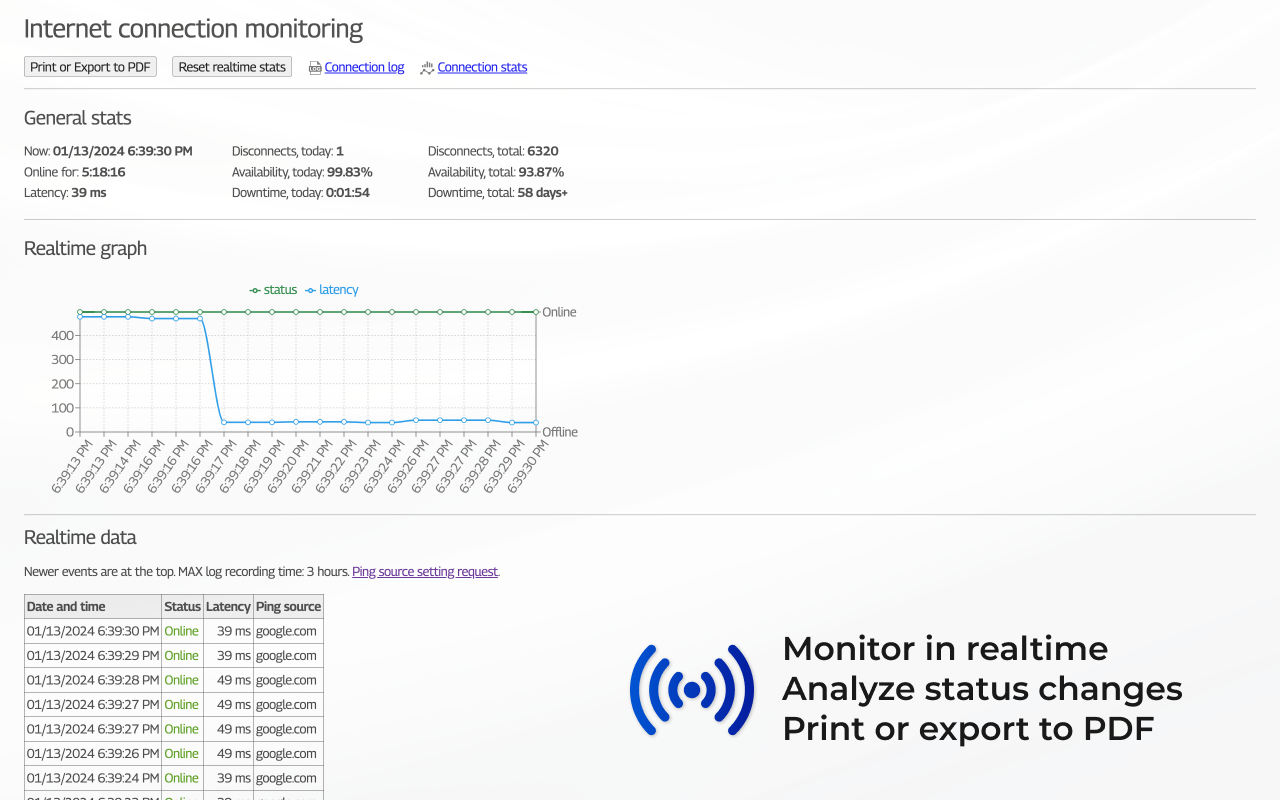
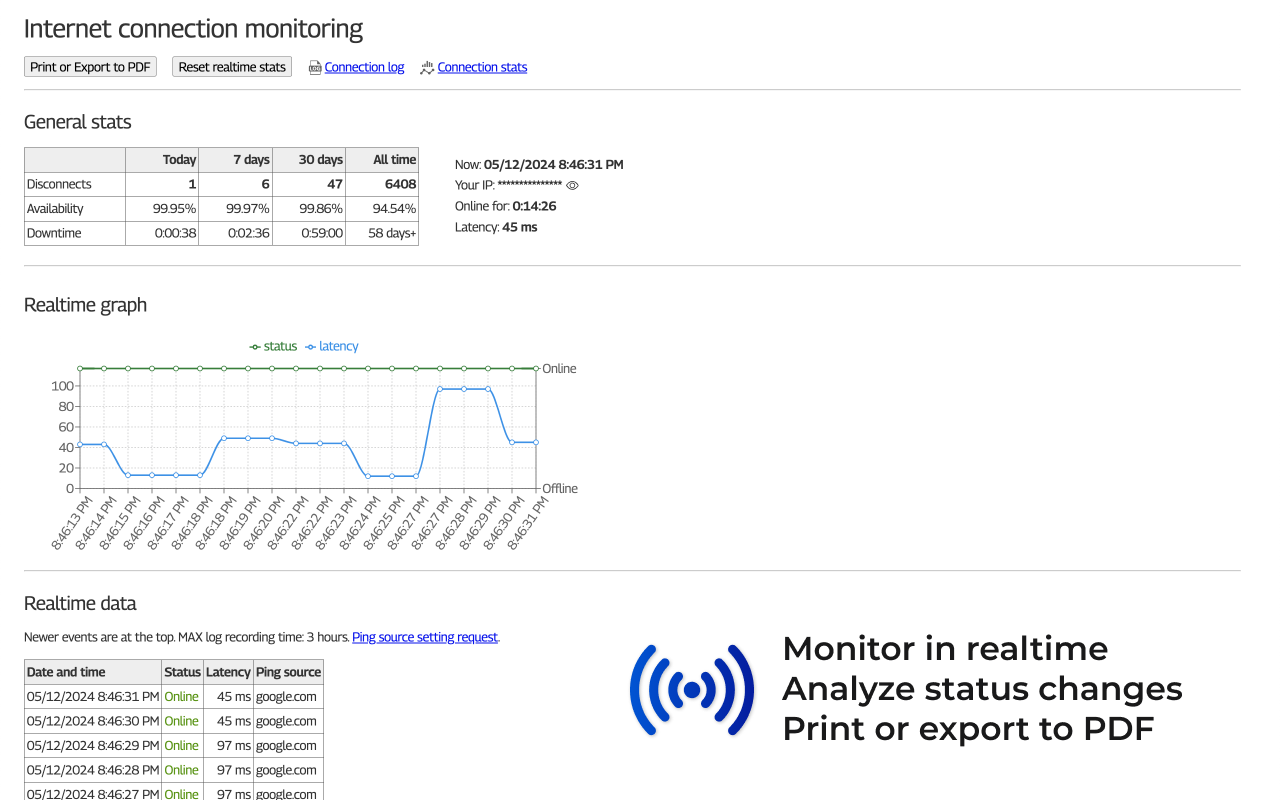
ICM 5.2 release

diff --git a/pages/index.tsx b/pages/index.tsx
@@ -1,11 +1,7 @@
-// import Head from 'next/head'
-// import Image from 'next/image'
-// import styles from '../styles/Home.module.css'
 import Link from 'next/link';
 import { DownloadButton, MadeWithLove, MainLayout } from '@/components';
-import Donate from '@/components/Donate';
 
-export default function Home() {
+export default function HomePage() {
   return (
     <MainLayout>
       <div className="container-fluid">
@@ -37,26 +33,29 @@ export default function Home() {
             <h5 className="text-center">🎯 ICM IS THE BEST FOR</h5>
             <ul>
               <li>Recording and analyzing outages of Internet connection</li>
+              <li>Displaying your public IP</li>
               <li>Verifying ISP/provider issues</li>
-              <li>Verifying some hardware issues</li>
+              <li>Verifying some router/modem/hardware issues</li>
             </ul>
             <h5 className="text-center">💻 FEATURES</h5>
             <ul>
               <li>Precise connectivity test with configurable testing interval</li>
               <li>Latency measurement</li>
+              <li>Show public IP address</li>
               <li>Detect when Internet doesn't work even with operating LAN connection (Wi-Fi or Ethernet)</li>
               <li>Disconnects, availability and downtime stats</li>
               <li>Play sound when connection goes online or offline</li>
               <li>Events log with CSV and PDF export</li>
               <li>Realtime connectivity and latency monitoring</li>
               <li>Light and dark themes support</li>
+              <li>Adjustable icons and sounds</li>
             </ul>
-            <h5 className="text-center">🚀 NEW IN ICM v5</h5>
+            <h5 className="text-center">🚀 NEW IN ICM v5.2</h5>
             <ul>
-              <li>Realtime connectivity and latency monitoring</li>
-              <li>Main popup opens up faster</li>
-              <li>A couple of bugs fixed</li>
-              <li>UI is like it was designed by Jony Ive</li>
+              <li>Show public IP address</li>
+              <li>On/Off switch to turn the monitoring off</li>
+              <li>Sound themes</li>
+              <li>Stats break-down: Today / 7 days / 30 days / All time</li>
             </ul>
             <h5 className="text-center mb-3">📷 SCREENSHOTS</h5>
             <div id="carouselExampleIndicators" className="carousel carousel-dark slide mb-5" data-bs-ride="carousel">
@@ -67,31 +66,31 @@ export default function Home() {
                   data-bs-slide-to="0"
                   className="active"
                   aria-current="true"
-                  aria-label="Screenshot 1"
+                  aria-label="ICM Screenshot 1"
                 ></button>
                 <button
                   type="button"
                   data-bs-target="#carouselExampleIndicators"
                   data-bs-slide-to="1"
-                  aria-label="Screenshot 2"
+                  aria-label="ICM Screenshot 2"
                 ></button>
                 <button
                   type="button"
                   data-bs-target="#carouselExampleIndicators"
                   data-bs-slide-to="2"
-                  aria-label="Screenshot 3"
+                  aria-label="ICM Screenshot 3"
                 ></button>
                 <button
                   type="button"
                   data-bs-target="#carouselExampleIndicators"
                   data-bs-slide-to="3"
-                  aria-label="Screenshot 4"
+                  aria-label="ICM Screenshot 4"
                 ></button>
                 <button
                   type="button"
                   data-bs-target="#carouselExampleIndicators"
                   data-bs-slide-to="4"
-                  aria-label="Screenshot 5"
+                  aria-label="ICM Screenshot 5"
                 ></button>
               </div>
               <div className="carousel-inner shadow rounded">
@@ -275,12 +274,12 @@ export default function Home() {
             <br />
             <strong>Q:</strong> Does this extension record my IP address or something else?
             <br />
-            <strong>A:</strong> A: It does NOT. The extension uses free API
+            <strong>A:</strong> It does NOT. The extension uses{' '}
             <a href="https://www.ipify.org/" target="_blank" rel="noopener noreferrer nofollow">
               ipify.org
             </a>{' '}
-            to get the public IP address. Read the Privacy Policy to get a better perspective on your data's privacy:{' '}
-            <Link href="/privacy-policy.html">Privacy Policy</Link>
+            API to get the public IP address. Read the <Link href="/privacy-policy.html">Privacy Policy</Link> to get a
+            better perspective on your data's privacy.
             <br />
             <br />
             <strong>Q:</strong> Can this extension measure Internet speed?
@@ -343,9 +342,13 @@ export default function Home() {
           </div>
         </div>
         <div className="row justify-content-center">
-          <div className="col text-center pt-5 pb-3">
+          <div className="col-md-6 col-sm-12 pt-4 mb-2">
             <h3 className="text-center">Privacy Policy</h3>
-            <Link href="/privacy-policy.html">ICM Privacy Policy</Link>
+            <ul>
+              <li className="pb-1">
+                <Link href="/privacy-policy.html">Internet Connection Monitor Privacy Policy</Link>
+              </li>
+            </ul>
           </div>
         </div>
         <div className="row justify-content-center">
@@ -353,26 +356,19 @@ export default function Home() {
             <h3 className="text-center">Support</h3>
             <ul>
               <li className="pb-1">
-                For support and questions:{' '}
-                <Link href="https://chromewebstore.google.com/detail/hgccfdagfbilbdbkgmfdmmdfmjjoakfo/support">
-                  extension's support page in Chrome store
+                For support and requests:{' '}
+                <Link href="https://github.com/InternetConnectionMonitor/icm-public/discussions">
+                  ICM discussions on GitHub
                 </Link>
               </li>
-              <li>
-                For bug reports and feature requests:{' '}
-                <Link href="https://github.com/InternetConnectionMonitor/icm-public/issues">
-                  ICM issues page on GitHub
-                </Link>
-              </li>
-              <li>
-                For updates and news: <Link href="https://twitter.com/icm_hq">Follow ICM on Twitter</Link>
+              <li className="pb-1">
+                For updates and news: follow <Link href="https://twitter.com/icm_hq">ICM on Twitter</Link>
               </li>
             </ul>
           </div>
         </div>
 
         {/* <DownloadButton /> */}
-        {/* <Donate /> */}
         <MadeWithLove />
       </div>
     </MainLayout>

diff --git a/README.md b/README.md
@@ -4,6 +4,6 @@
 
 This repository contains a website and serves as a tracking tool for bugs and feature requests. The source code of ICM is going to remain private.
 
-* Read more: https://internetmon.org
-* Install ICM: https://bit.ly/icm-chrome
-* Report bugs and make feature requests: https://github.com/InternetConnectionMonitor/icm-public/issues
+* 🌎 Read more: https://internetmon.org
+* ⬇ Install ICM: https://bit.ly/icm-chrome
+* 🐞 Support hub: https://bit.ly/icm-discussions
